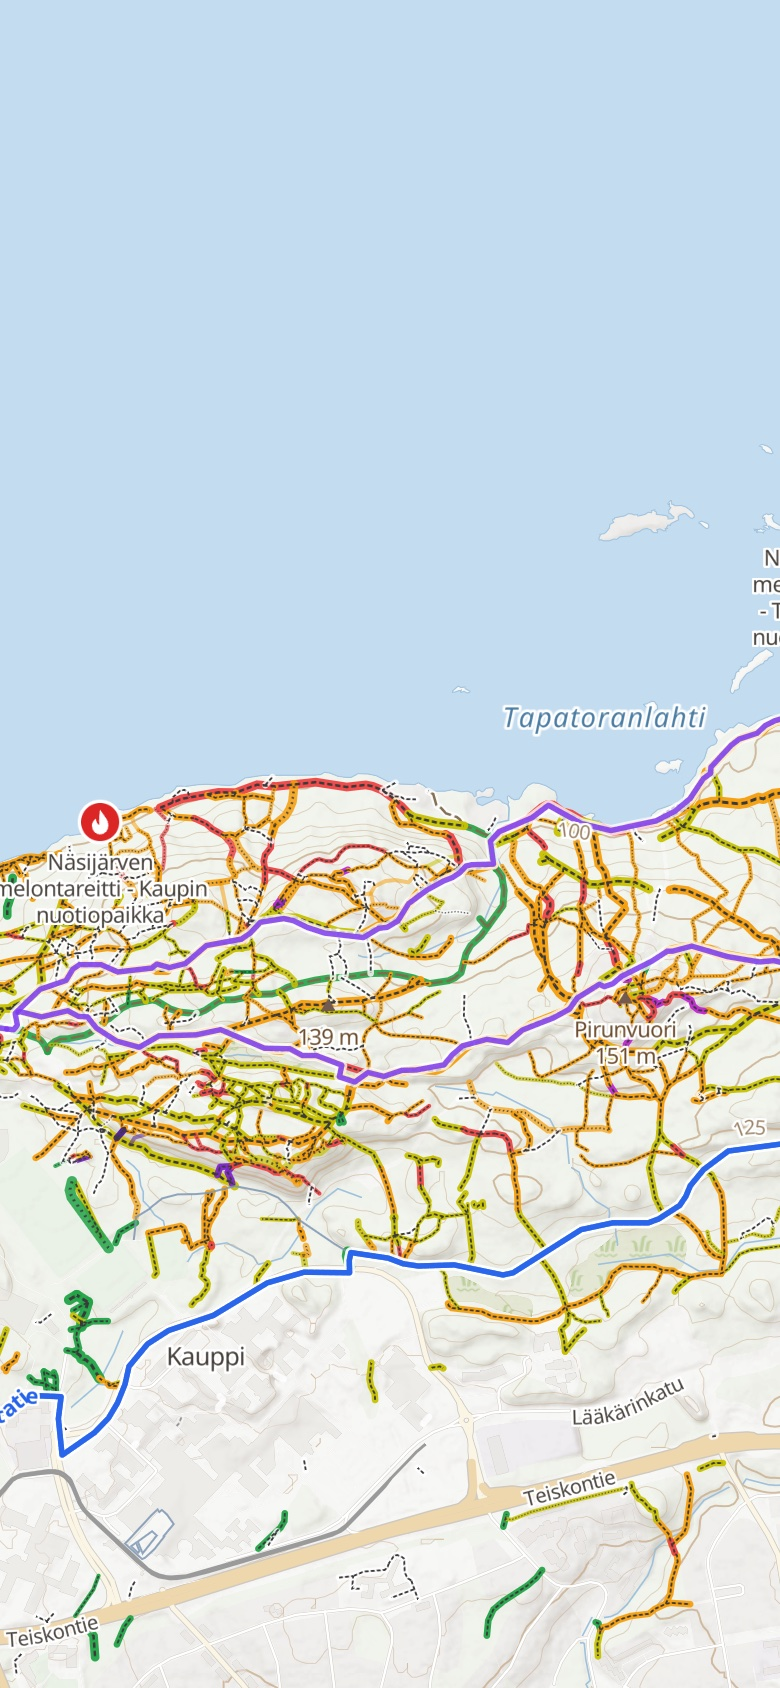
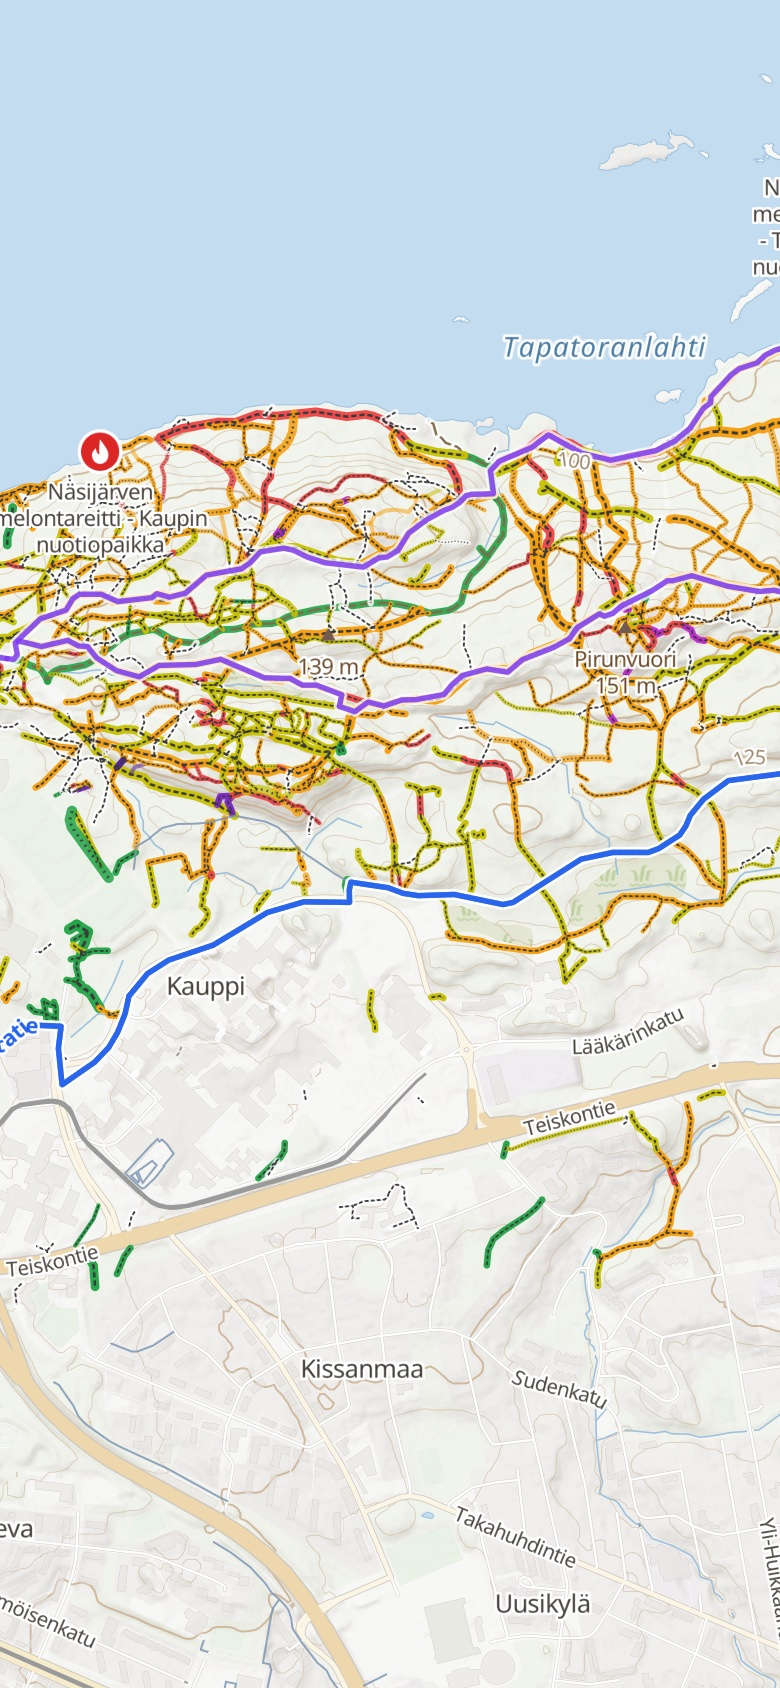
#547: the Trail map and Plain on a phone, with the route above the planner's sheet

diff --git a/claude/547-the-look/measure/v2/capture_trail_plain.py b/claude/547-the-look/measure/v2/capture_trail_plain.py
@@ -56,7 +56,7 @@ def one(c, name, base, phone, centre, zoom):
         pg.js(HIDE_UI)
         pg.js(f"polku.map.setPadding({{ top: 0, bottom: 0, left: 0, right: 0 }}); polku.map.jumpTo({{ center: {json.dumps(centre)}, zoom: {zoom}, bearing: 0, pitch: 0 }}); true")
         took = settle(c, pg)
-        for _ in range(60):
+        for _ in range(120):
             n = pg.js("polku.map.queryRenderedFeatures({ layers: polku.map.getStyle().layers.filter((l) => /^path-.*-halo$/.test(l.id)).map((l) => l.id) }).length")
             if n > 50:
                 break
@@ -75,8 +75,8 @@ def one(c, name, base, phone, centre, zoom):
 
 
 VIEWS = [
-    ('trail', 'trail', [23.8220, 61.5165], 13.2, [23.8300, 61.5140], 14.65),
-    ('plain', 'plain', [23.8220, 61.5165], 13.2, [23.8300, 61.5140], 14.65),
+    ('trail', 'trail', [23.8220, 61.5099], 13.2, [23.8300, 61.5140], 14.65),
+    ('plain', 'plain', [23.8220, 61.5099], 13.2, [23.8300, 61.5140], 14.65),
 ]
 # where a red (S3) or purple (S4–S6) trail comes nearest the route, round Kauppi at zoom 14.2
 NEAR = """(() => { const m = polku.map, a = polku.planner.legs.flatMap((l) => l.result.coords);
@@ -126,6 +126,5 @@ c = Chrome()
 try:
     for name, base, pc, pz, dc, dz in VIEWS:
         one(c, name, base, True, pc, pz)
-        one(c, name, base, False, dc, dz)
 finally:
     c.close()
